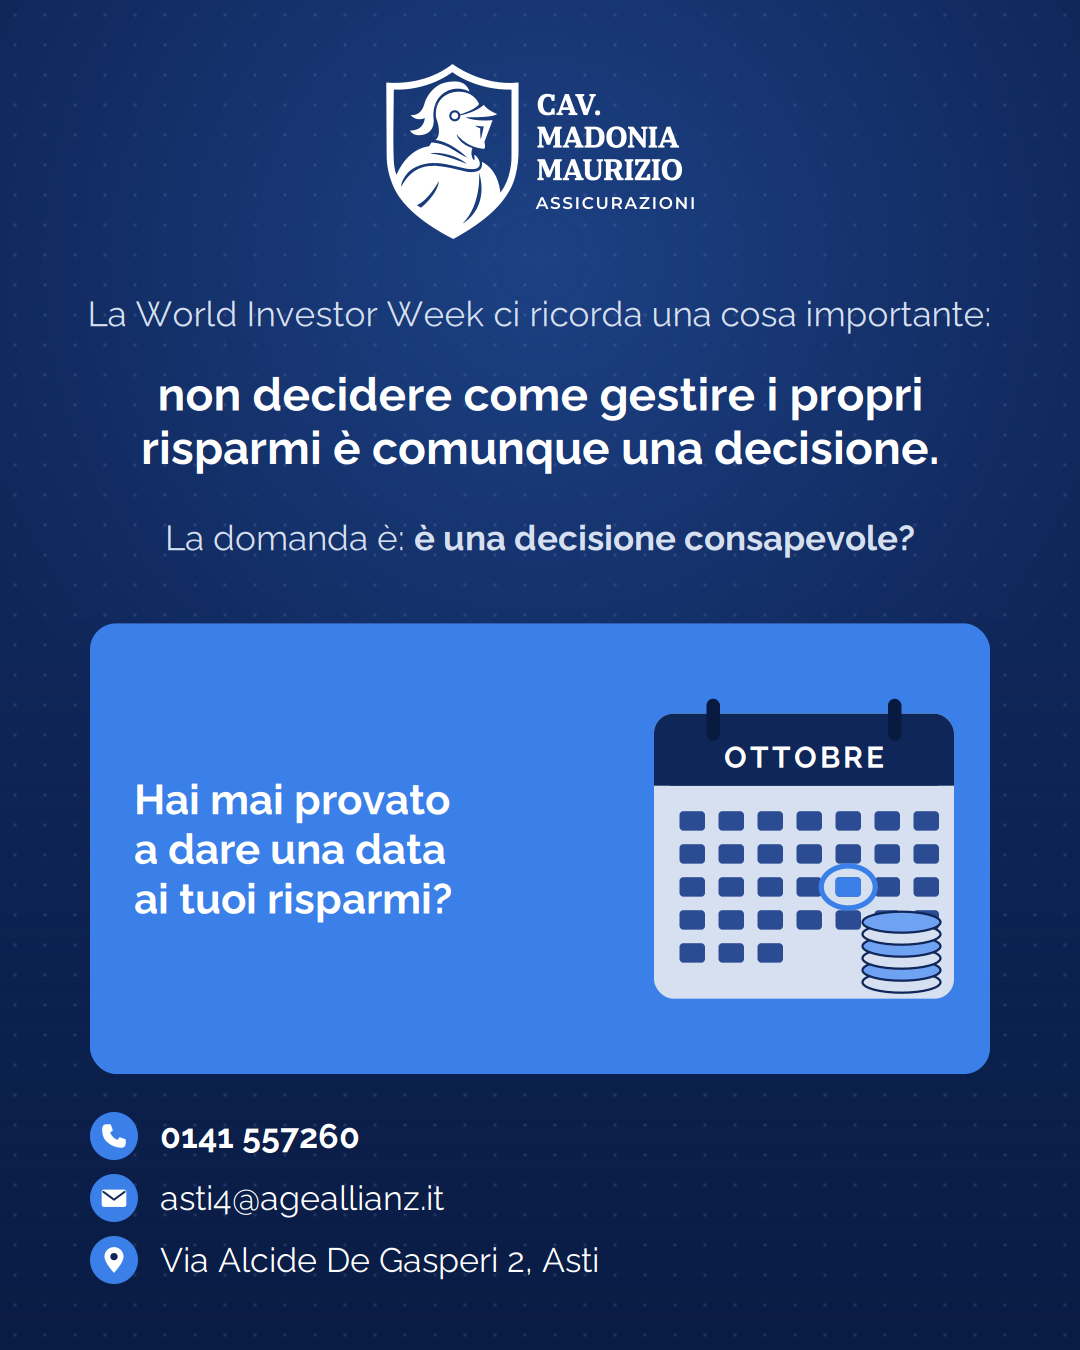
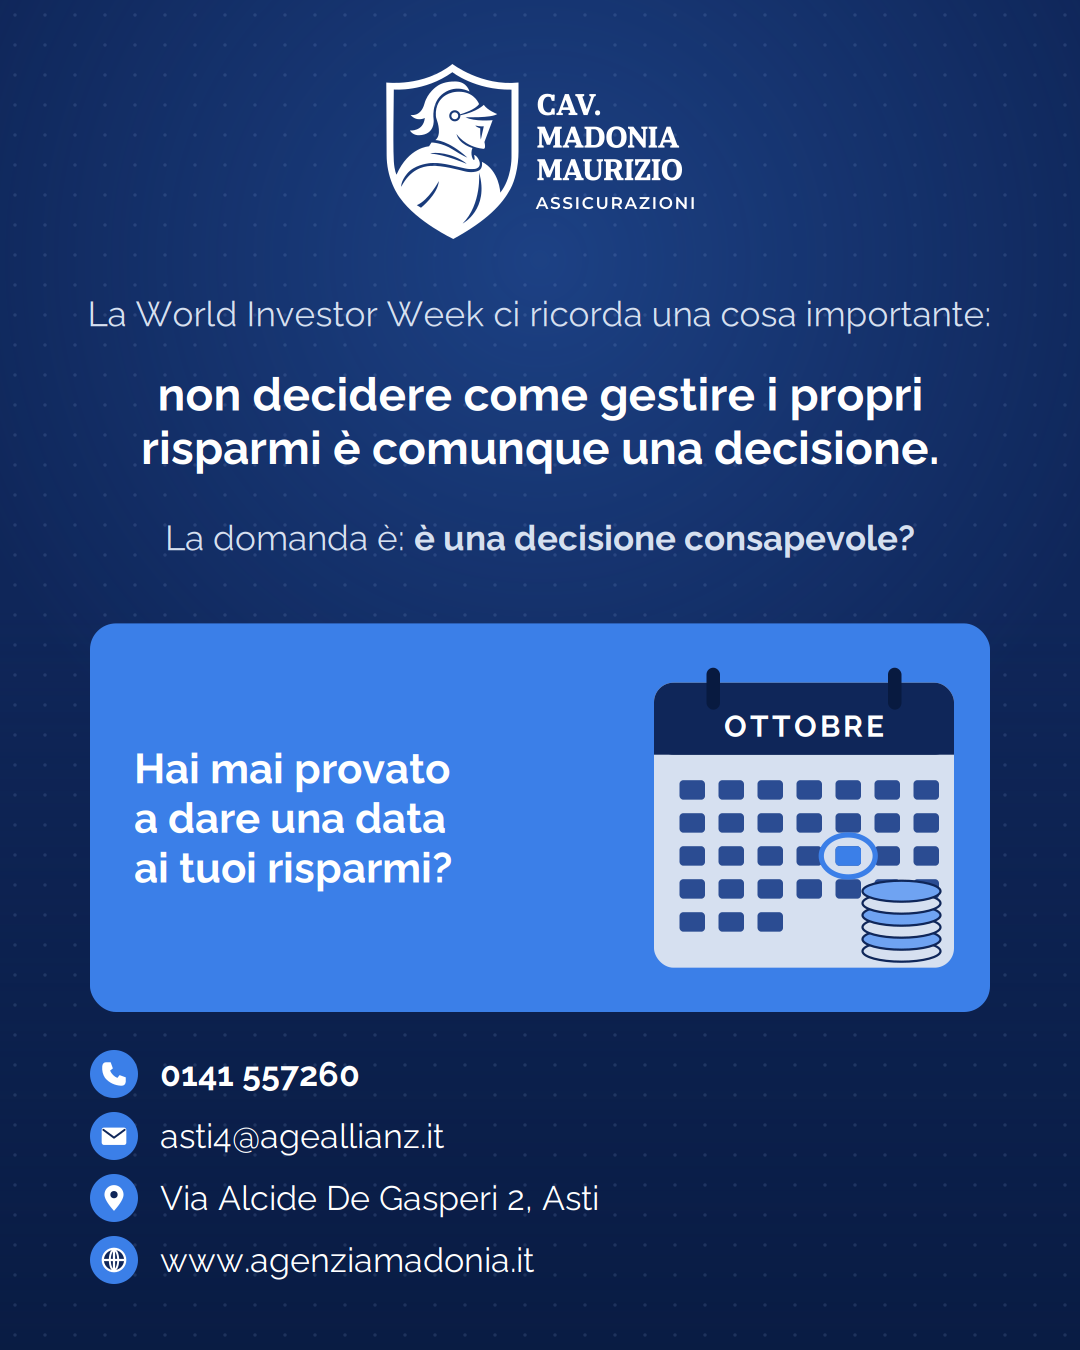
CTA: aggiunto il sito www.agenziamadonia.it
Claude-Session: https://claude.ai/code/session_01Y87LCYMEWbsPZvPXC2v9su

Changed region(s): [[0.0611, 0.4978, 0.9167, 0.9644], [0.1222, 0.56, 0.4278, 0.6844], [0.5194, 0.9333, 0.55, 0.9644]]

diff --git a/build_carousel.py b/build_carousel.py
@@ -455,6 +455,14 @@ def icon_pin(x, y, size, c=WHITE, bg=NAVY, gid=None):
         + circle(50, 38, 13, bg), x, y, size, gid)
 
 
+def icon_web(x, y, size, c=WHITE, bg=NAVY, gid=None):
+    """Globo stilizzato: sito web."""
+    return _icon(
+        circle(50, 50, 44, c) + circle(50, 50, 36, bg)
+        + f'<ellipse cx="50" cy="50" rx="15" ry="36" fill="none" stroke="{c}" stroke-width="7"/>'
+        + rect(14, 46, 72, 8, c) + rect(46, 14, 8, 72, c), x, y, size, gid)
+
+
 def icon_eye_off(x, y, size, c=WHITE, bg=NAVY, gid=None):
     return _icon(
         f'<path d="M6 50 Q50 6 94 50 Q50 94 6 50 Z" fill="{c}"/>'

diff --git a/carousel_01_soldi_fermi.py b/carousel_01_soldi_fermi.py
@@ -144,7 +144,8 @@ slides.append(build_layout_cta(
     question="Hai mai provato\na dare una data\nai tuoi risparmi?",
     contacts=[(icon_phone, "0141 557260"),
               (icon_mail, "asti4@ageallianz.it"),
-              (icon_pin, "Via Alcide De Gasperi 2, Asti")],
+              (icon_pin, "Via Alcide De Gasperi 2, Asti"),
+              (icon_web, "www.agenziamadonia.it")],
     illu_fn=illu_calendar_savings,
 ))
 
